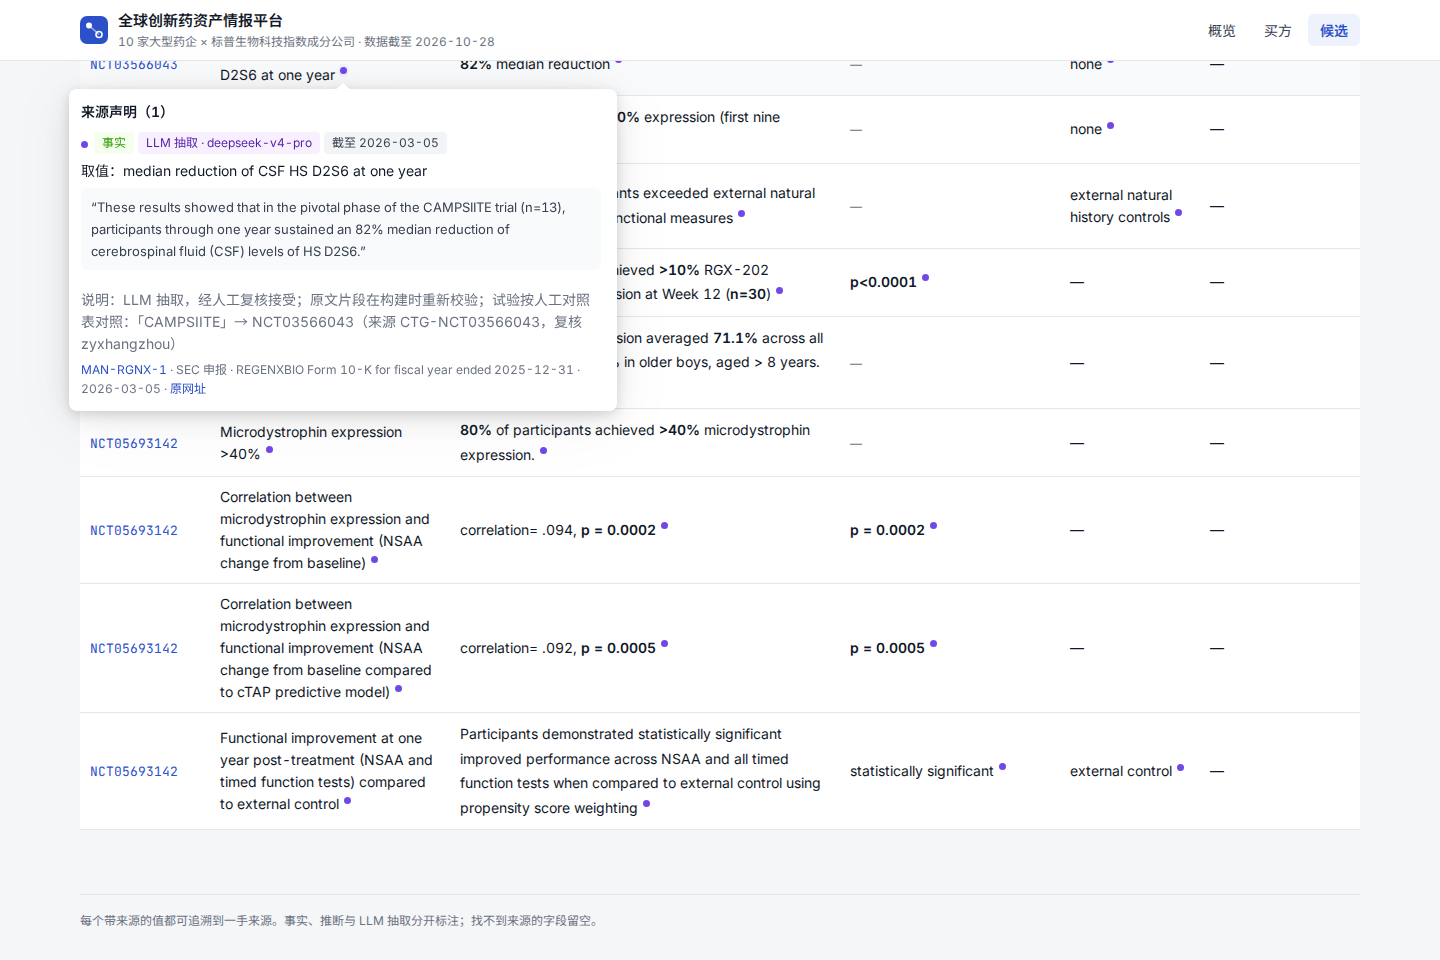
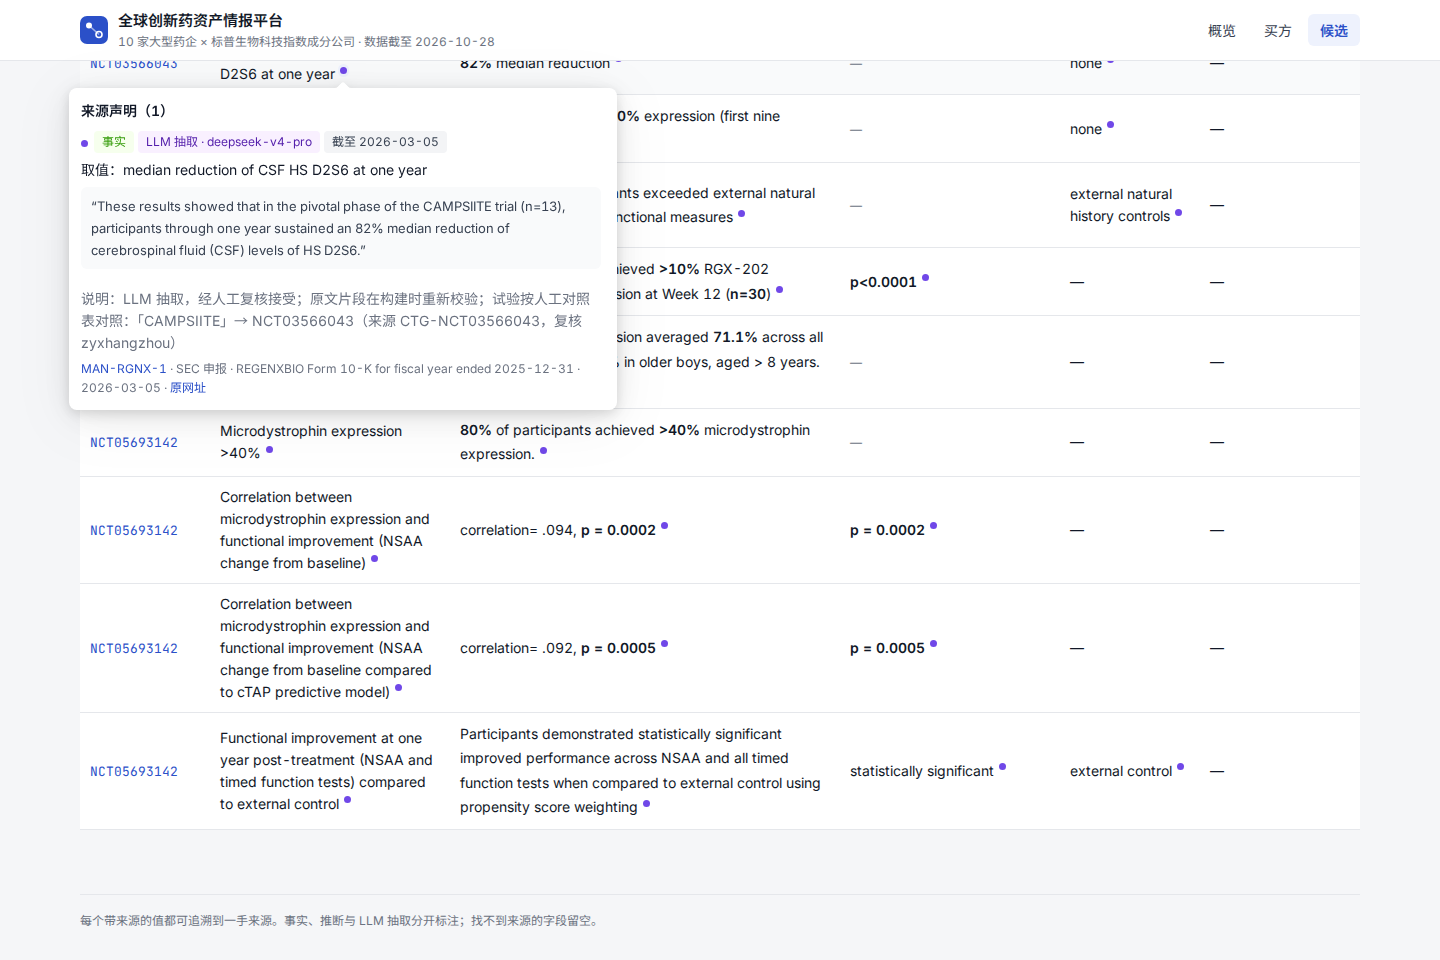
web: show scoring reasons when no thesis; other directions as an expandable table
Claude-Session: https://claude.ai/code/session_01HkPvGRTAerm7dKeWUgGh96

diff --git a/web/src/pages/TargetDetail.tsx b/web/src/pages/TargetDetail.tsx
@@ -1,4 +1,4 @@
-import { Alert, Card, Collapse, Descriptions, Table, Tabs, Tag } from 'antd'
+import { Alert, Card, Descriptions, Table, Tabs, Tag } from 'antd'
 import { Link, useParams } from 'react-router'
 import { fetchTarget, type Recommendation, type TargetDetail as Detail, type TrialResult } from '../api/client'
 import { useApi } from '../api/useApi'
@@ -66,34 +66,136 @@ function Facts({ r }: { r: Recommendation }) {
   )
 }
 
+// Why each dimension got its score, from the scoring claims' notes (deduplicated).
+function ScoreReasons({ r }: { r: Recommendation }) {
+  return (
+    <dl className="reasons">
+      {DIMENSIONS.map((d) => {
+        const claims = r.sources[d.key] ?? []
+        const notes = [...new Set(claims.map((c) => c.note ?? c.value).filter((n): n is string => !!n))]
+        return (
+          <div key={d.key}>
+            <dt>
+              <Score value={r.scores[d.key]} />
+              <span>{d.label}</span>
+            </dt>
+            <dd>
+              {notes.length ? (
+                <SourcedText sources={r.sources} field={d.key} text={notes.join('\n')} />
+              ) : (
+                <span className="sub">无评分依据（该维度缺少来源，保守分按 0 计）</span>
+              )}
+            </dd>
+          </div>
+        )
+      })}
+    </dl>
+  )
+}
+
+function ReviewFields({ r }: { r: Recommendation }) {
+  const fields = REVIEW_FIELDS.filter(([key]) => r[key])
+  if (!fields.length) return null
+  return (
+    <dl className="fields">
+      {fields.map(([key, text]) => (
+        <div className="field" key={key}>
+          <dt>{text}</dt>
+          <dd><SourcedText sources={r.sources} field={key} text={r[key] as string} /></dd>
+        </div>
+      ))}
+    </dl>
+  )
+}
+
 function RecommendationView({ r }: { r: Recommendation }) {
   return (
     <>
       <div className="review-top">
-        <div style={{ display: 'grid', gap: 8 }}>
-          <div>
-            <b style={{ fontSize: 15 }}>推荐逻辑</b>
-            <span className="sub" style={{ marginLeft: 10 }}>两句话：买方需求与资产的对应；证据、下一事件与主要障碍</span>
-          </div>
-          {r.thesis ? (
+        {r.thesis ? (
+          <div style={{ display: 'grid', gap: 8 }}>
+            <div>
+              <b style={{ fontSize: 15 }}>推荐逻辑</b>
+              <span className="sub" style={{ marginLeft: 10 }}>两句话：买方需求与资产的对应；证据、下一事件与主要障碍</span>
+            </div>
             <p className="thesis">
               <Sourced sources={r.sources} field="thesis">{r.thesis}</Sourced>
             </p>
-          ) : (
-            <p className="note">仅经自动初筛，尚未撰写推荐逻辑。</p>
-          )}
-        </div>
+          </div>
+        ) : (
+          <div style={{ display: 'grid', gap: 8 }}>
+            <div>
+              <b style={{ fontSize: 15 }}>评分依据</b>
+              <span className="sub" style={{ marginLeft: 10 }}>仅经自动初筛，尚未撰写推荐逻辑；以下为各维度的打分规则与依据</span>
+            </div>
+            <ScoreReasons r={r} />
+          </div>
+        )}
         <Facts r={r} />
       </div>
-      <dl className="fields">
-        {REVIEW_FIELDS.filter(([key]) => r[key]).map(([key, text]) => (
-          <div className="field" key={key}>
-            <dt>{text}</dt>
-            <dd><SourcedText sources={r.sources} field={key} text={r[key] as string} /></dd>
-          </div>
-        ))}
-      </dl>
+      <ReviewFields r={r} />
     </>
+  )
+}
+
+// Other directions as one compact table; a row expands to its scoring reasons and any review notes.
+function OtherDirections({ items }: { items: Recommendation[] }) {
+  return (
+    <Table
+      rowKey={(_, i) => String(i)}
+      size="small"
+      pagination={false}
+      dataSource={items}
+      scroll={{ x: 900 }}
+      expandable={{
+        expandedRowRender: (r) => (
+          <div style={{ padding: '4px 8px 8px' }}>
+            <ScoreReasons r={r} />
+            <ReviewFields r={r} />
+          </div>
+        ),
+      }}
+      columns={[
+        {
+          title: '资产 × 适应症',
+          render: (_, r) => (
+            <div style={{ display: 'grid', gap: 2 }}>
+              <b>{r.asset ?? '—'}</b>
+              <span className="sub">{r.indication ?? '—'} · {taLabel(r.therapeutic_area)}</span>
+            </div>
+          ),
+        },
+        { title: '阶段', width: 70, render: (_, r) => label(STAGE, r.stage) },
+        {
+          title: '买方 · 偏好',
+          width: 220,
+          render: (_, r) => (
+            <>
+              {r.buyer_ticker ? <Link to={`/buyers/${r.buyer_ticker}`}>{r.buyer}</Link> : '—'}
+              <span className="sub"> · {r.preference ?? '—'}</span>
+            </>
+          ),
+        },
+        ...DIMENSIONS.map((d) => ({
+          title: d.short,
+          width: 52,
+          align: 'center' as const,
+          render: (_: unknown, r: Recommendation) => <Score value={r.scores[d.key]} />,
+        })),
+        {
+          title: '保守 / 乐观',
+          width: 100,
+          align: 'right' as const,
+          render: (_, r) => (
+            <>
+              <span className="figure" style={{ fontSize: 15 }}>{r.conservative}</span>
+              <span className="sub"> / {r.optimistic}</span>
+            </>
+          ),
+        },
+        { title: '状态', width: 84, render: (_, r) => <span className="sub">{label(RESEARCH_STATUS, r.research_status)}</span> },
+      ]}
+    />
   )
 }
 
@@ -159,14 +261,10 @@ function View({ d }: { d: Detail }) {
           {others.length > 0 && (
             <div style={{ marginTop: 24 }}>
               <b style={{ fontSize: 15 }}>其他可能方向</b>
-              <span className="sub" style={{ marginLeft: 10 }}>不计入公司分数；点开查看各自的评分与依据</span>
-              <Collapse style={{ marginTop: 10 }} size="small"
-                items={others.map((r, i) => ({
-                  key: i,
-                  label: direction(r),
-                  extra: <span className="sub">保守分 <b className="figure" style={{ color: 'var(--ink)' }}>{r.conservative}</b></span>,
-                  children: <RecommendationView r={r} />,
-                }))} />
+              <span className="sub" style={{ marginLeft: 10 }}>不计入公司分数；点开一行查看评分依据</span>
+              <div style={{ marginTop: 10 }}>
+                <OtherDirections items={others} />
+              </div>
             </div>
           )}
         </Card>

diff --git a/web/src/index.css b/web/src/index.css
@@ -458,7 +458,7 @@ h3 {
 
 .field {
   display: grid;
-  grid-template-columns: 136px minmax(0, 1fr);
+  grid-template-columns: 168px minmax(0, 1fr);
   gap: 6px 20px;
   padding-block: 14px;
   border-bottom: 1px solid var(--line);
@@ -629,5 +629,50 @@ h3 {
   }
   .ant-descriptions-bordered .ant-descriptions-item-label {
     width: 112px;
+  }
+}
+
+/* Scoring reasons: score chip and dimension name, then the rule that produced the score. */
+.reasons {
+  margin: 0;
+  display: grid;
+}
+
+.reasons > div {
+  display: grid;
+  grid-template-columns: 168px minmax(0, 1fr);
+  gap: 4px 16px;
+  padding-block: 10px;
+  border-bottom: 1px solid var(--line);
+}
+
+.reasons > div:last-child {
+  border-bottom: 0;
+}
+
+.reasons dt {
+  display: flex;
+  align-items: center;
+  gap: 8px;
+  font-size: 13px;
+  font-weight: 600;
+  color: var(--ink-2);
+  align-self: start;
+}
+
+.reasons dd {
+  margin: 0;
+  min-width: 0;
+}
+
+.reasons .rich {
+  font-size: 13px;
+  line-height: 1.7;
+  gap: 4px;
+}
+
+@media (max-width: 640px) {
+  .reasons > div {
+    grid-template-columns: minmax(0, 1fr);
   }
 }

diff --git a/docs/ai-log.md b/docs/ai-log.md
@@ -45,3 +45,4 @@
 | 2026-10-31 | G 视觉改版 | Claude Code (Opus 5.5) 改样式与布局；Playwright（无头 Chromium）1440 / 390 宽度截图检查 | 按用户评审意见：顶栏与内容对齐、候选列表合并列去掉横向滚动、改为投研报告风（衬线标题、细线分节、0–4 分色阶）。检查：各页 1440 宽度下页面与表格均无横向滚动，390 宽度下页面无横向滚动；演示走查通过，「Pfizer + 3 期」仍为 8 行，RGNX 引用片段仍被标出。发现：自写说明里把乐观分写成「缺失维度不计」，对照 `docs/scoring-rules.md` 第 132 行改为「按 4 分计」。 |
 | 2026-11-01 | G 视觉改版第二轮 | Claude Code (Opus 5.5) 改样式、布局与长文本排版；Playwright（无头 Chromium）1440 / 390 宽度截图检查 | 按用户选择改为无衬线、冷色调的数据产品风格；公司详情复核结论改为「论点 + 要点卡」两栏；长文本按句分段、原文引用成块、来源 ID 变链接、关键数字加粗（只改显示）。检查：来源 ID 识别规则对快照全部长文本字段跑了一遍，649 处全部对上已登记来源；首版规则误把药物代码 ABBV-400 与单词 FDA-approved 识别为来源，已收紧规则。各页 1440 宽度无横向滚动，演示走查通过（Pfizer + 3 期 8 行，RGNX 片段标出）。 |
 | 2026-11-01 | G 用语调整 | Claude Code (Opus 5.5) | 按用户评审改两处页面用语：「两句话论点」改为「推荐逻辑」（加一行说明两句话的内容）；「主组合 / 其他组合」改为「主推荐方向 / 其他可能方向」，标题写明「资产 × 适应症 × 买方」，并注明公司分数只按主推荐方向计算。`docs/scoring-rules.md`、`docs/plan.md` 与 `web-app` 变更文档同步改名。检查：构建与演示走查通过。未改：快照内的声明说明与缺口原因文字、已归档的主规格，仍用旧称。 |
+| 2026-11-01 | G 未复核方向的展示 | Claude Code (Opus 5.5) | 按用户评审：没有推荐逻辑的推荐方向，左栏改为显示各维度的「评分依据」（取自评分声明的说明，原文不改）；「其他可能方向」由折叠面板改为一张紧凑表格（资产 × 适应症、阶段、买方、五维分数、保守 / 乐观分），点开一行看评分依据与复核字段。检查：RGNX（已复核，含 5 个其他方向）与 MNKD（自动初筛）页面截图，演示走查通过。 |
